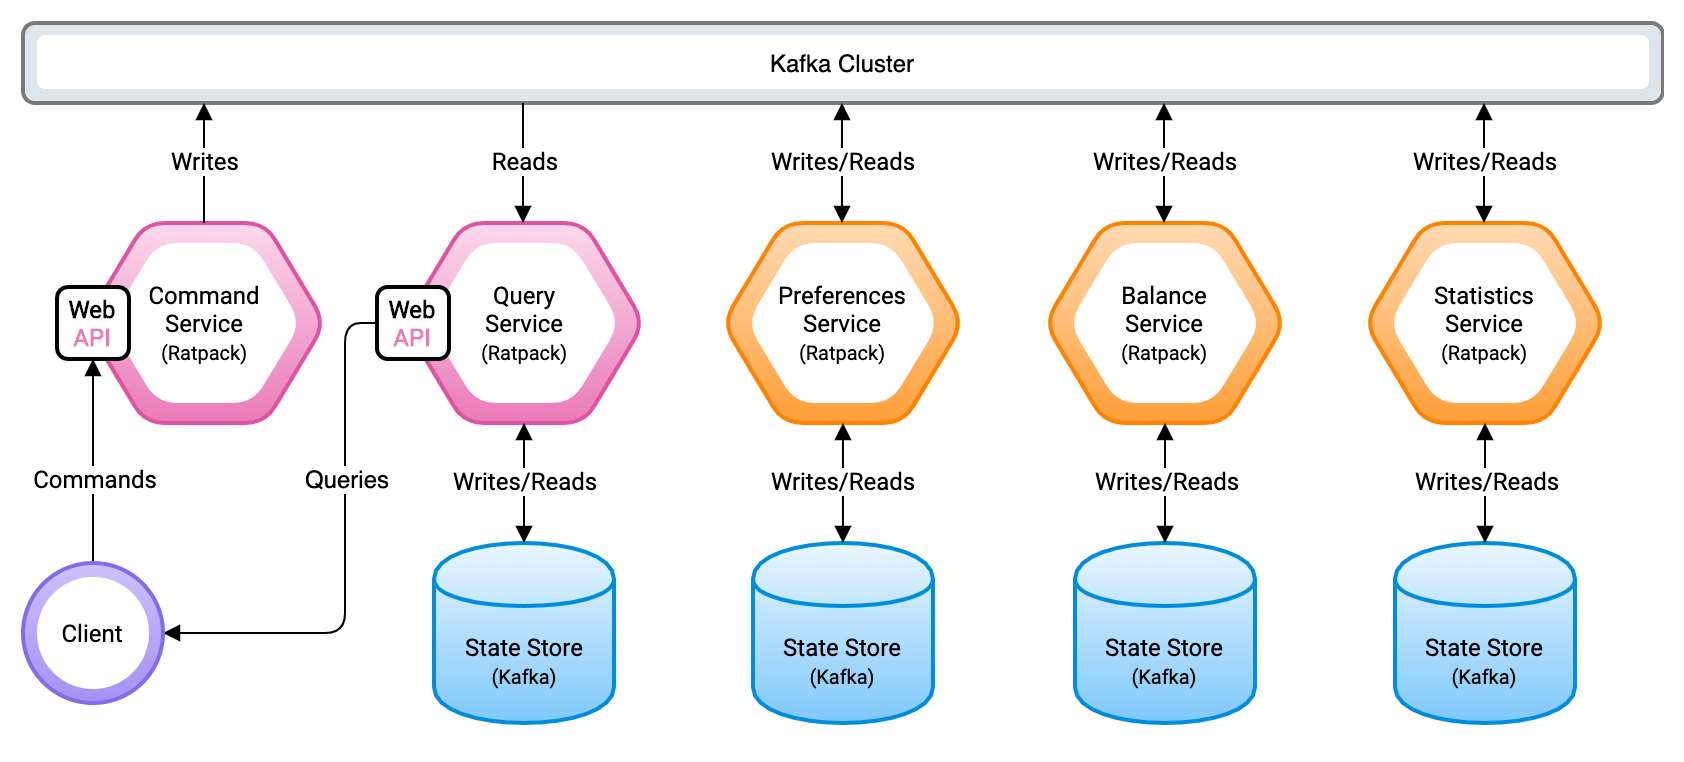
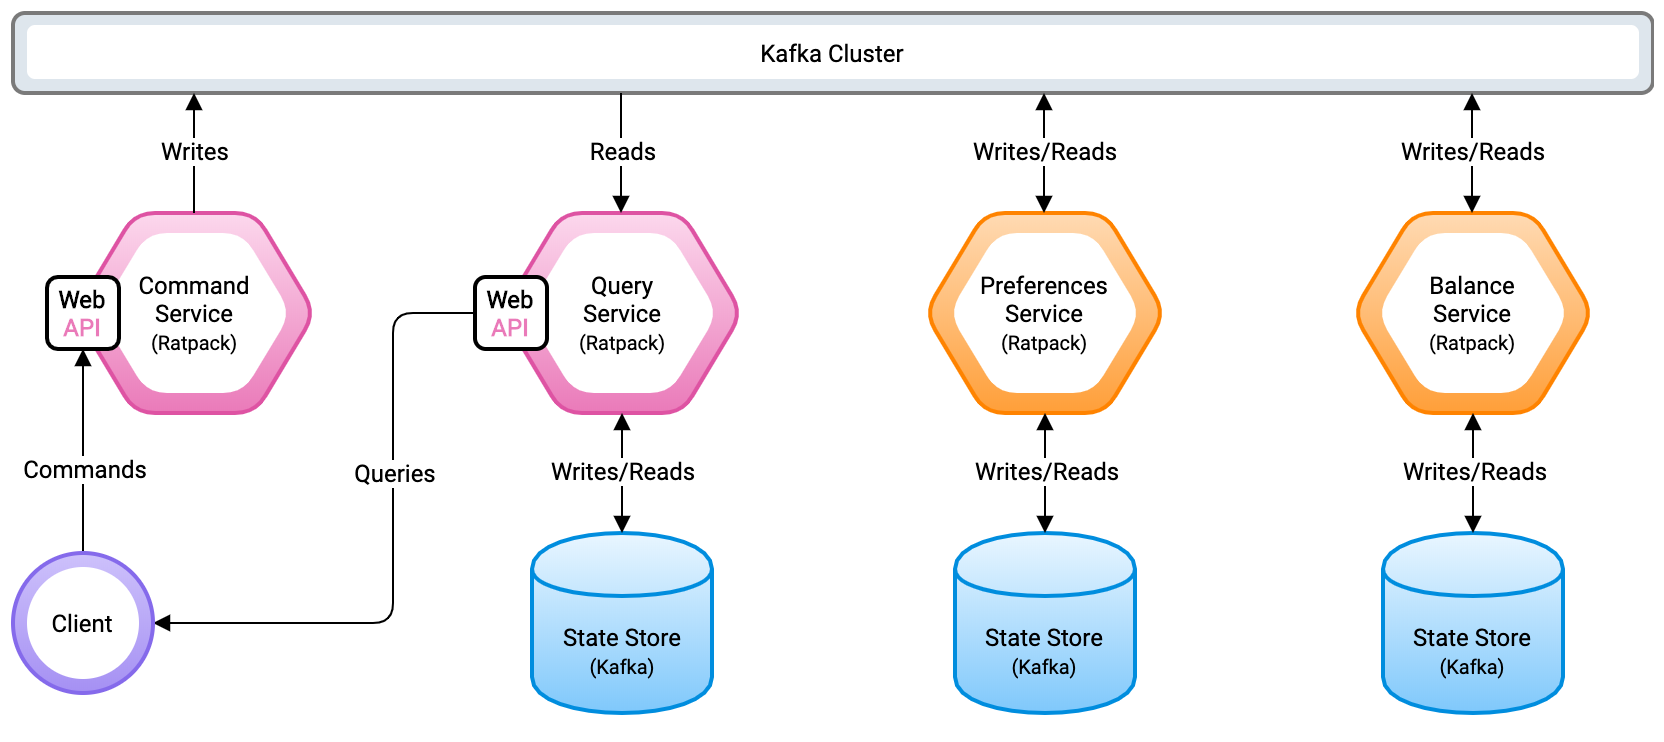
Remove Statistics service

diff --git a/README.md b/README.md
@@ -10,7 +10,7 @@ If you are familiar with video game platforms like [Steam](https://store.steampo
 
 ## Microservice Architecture
 
-Piggy Box is divided into 5 microservices, grouped together in a Monorepo but independently deployable. 
+Piggy Box is divided into 4 microservices, grouped together in a Monorepo but independently deployable. 
 
 <img width="880" alt="Kafka Microservices Architecture" src="/diagrams/kafka-microservices-architecture.png">
 
@@ -65,10 +65,6 @@ The balance transactions are stored in the Balance topic which is used as an Eve
 In the following diagram we can see an example of how funds can be added to a customer's balance. First the client calls the `/balance.addFunds` endpoint from the Command Service, then the Command Services publishes a command `AddFundsCommand` to the Preferences Authorization Topic. Then the Preferences Service reads the `AddFundsCommand`, checks the State Store to see if funds are in the same currency than the customer's preferences currency. Then, since the currency is the same, publishes an `AddFundsCommand` event to the Balance Authorization Topic. Then the Balance Service reads the `AddFundsCommand`, checks the State Store to see if the balance will be lower than 2000 after adding the funds. Then, since the balance will be lower than 2000 after adding the funds, publishes a `FundsAdded` event to the Balance Topic.
 
 <img width="880" alt="Kafka Event Store Balance Service" src="/diagrams/kafka-event-store-balance-service.png">
-
-#### Statistics Service
-
-TODO
 
 ## Getting Started
 
